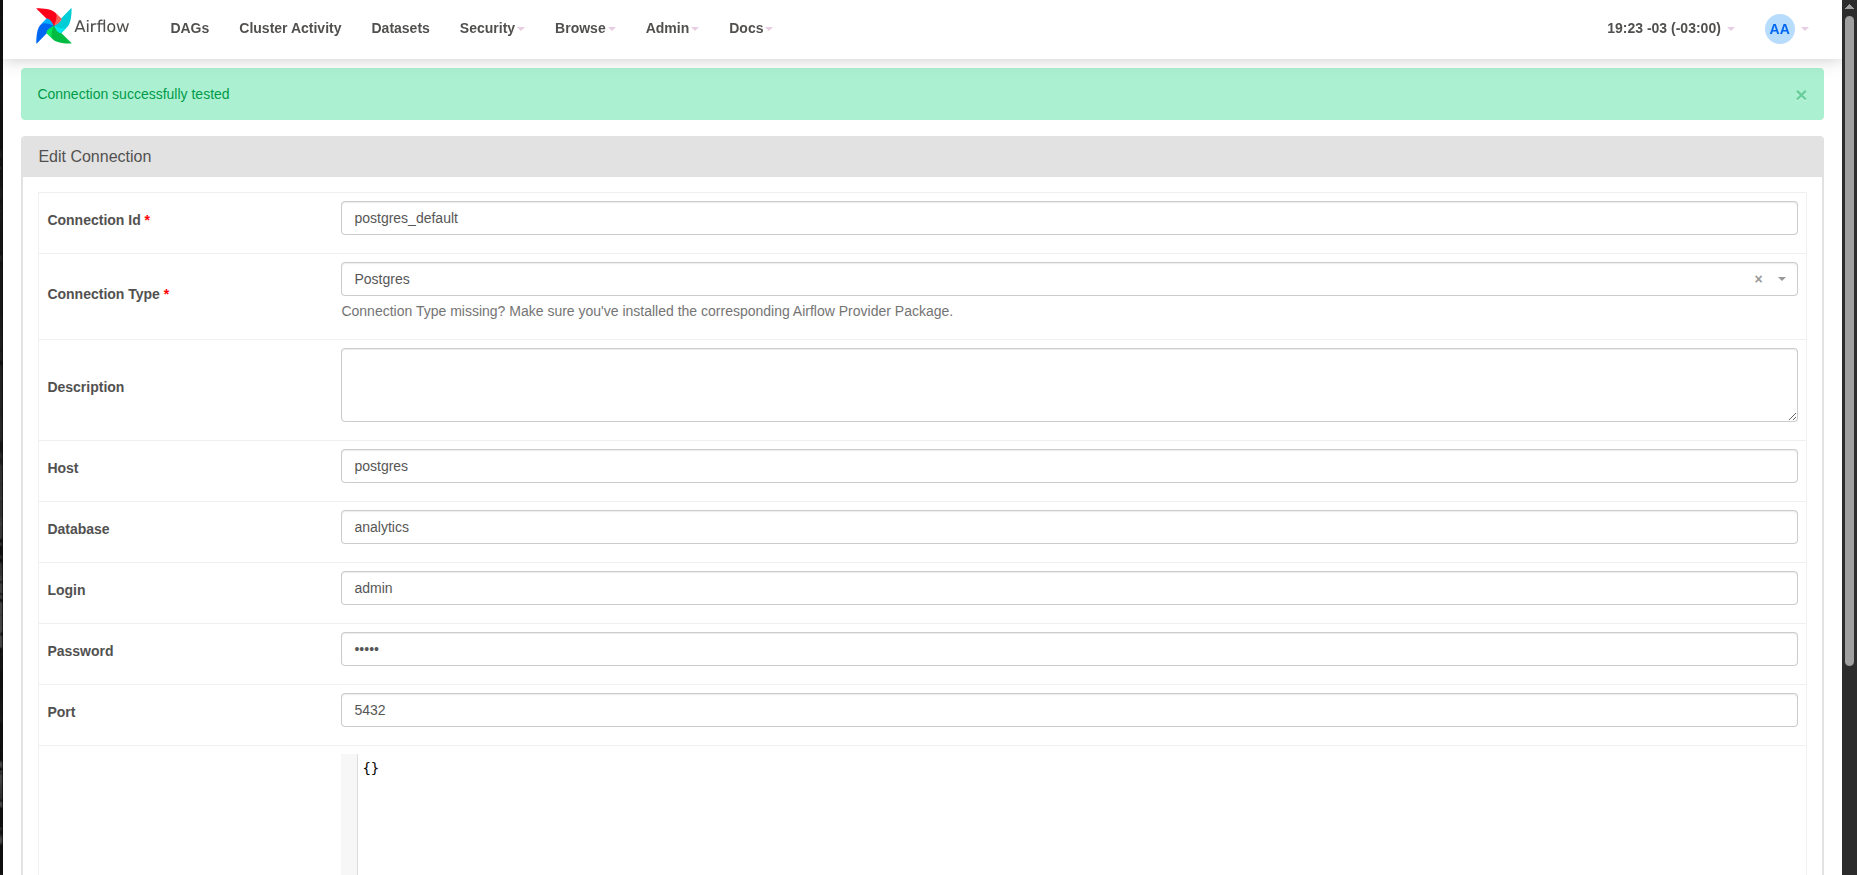
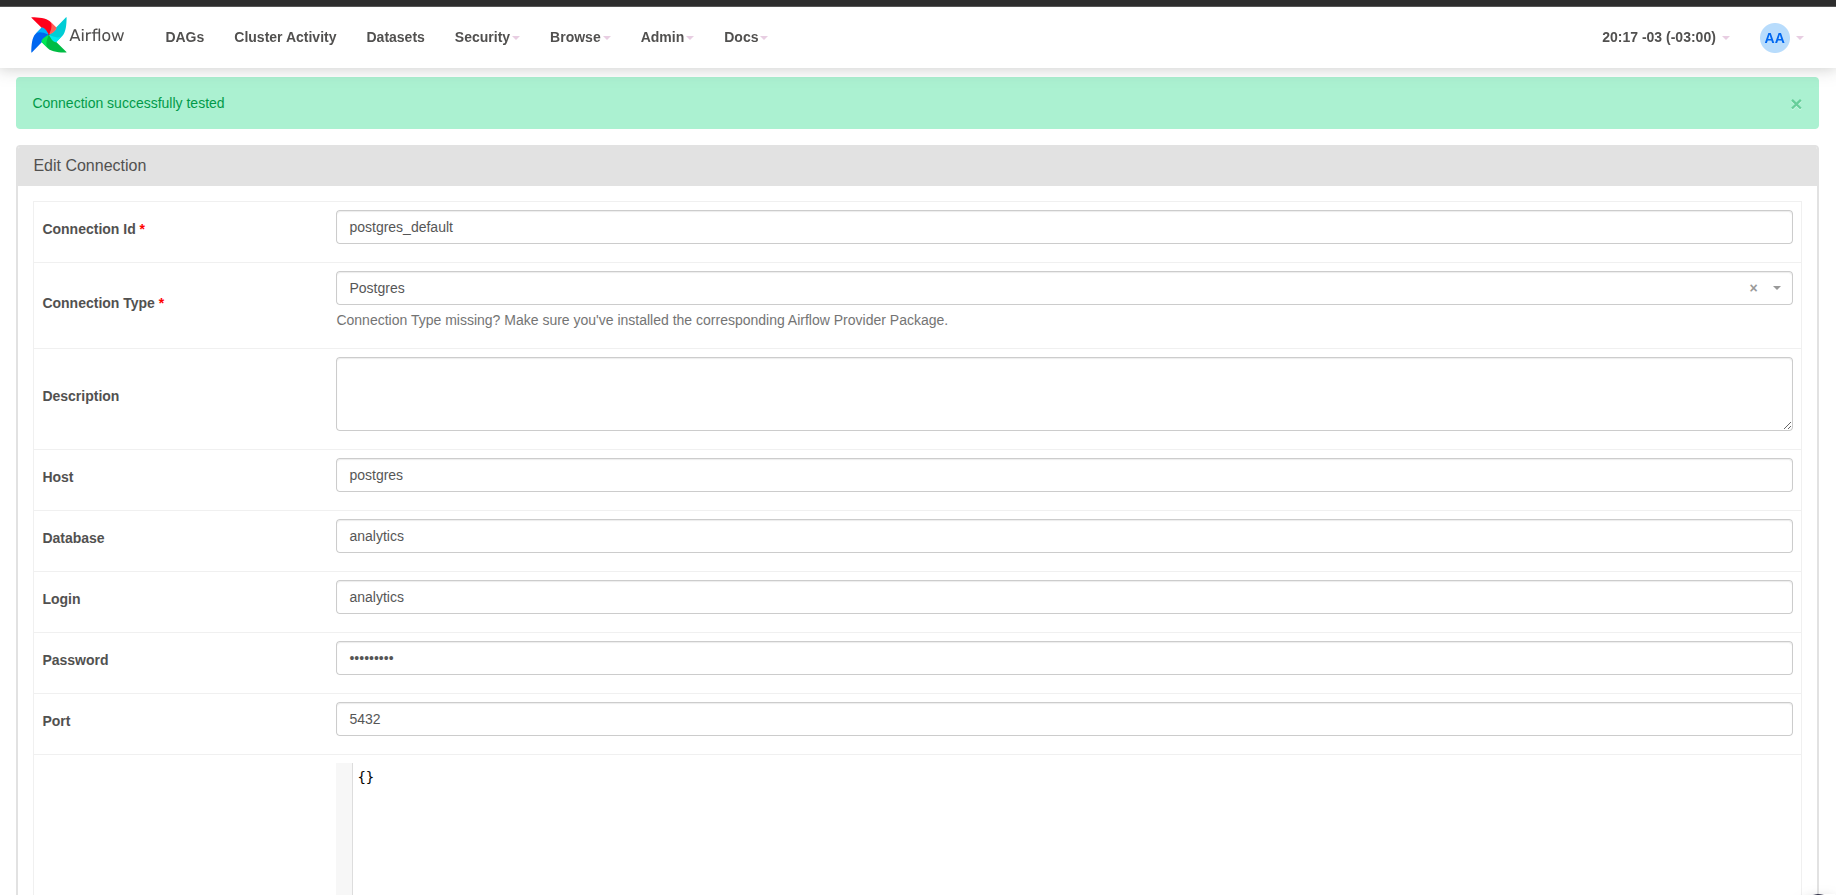
docs: ajustes no readme

diff --git a/README.md b/README.md
@@ -25,7 +25,7 @@ O objetivo é demonstrar **interoperabilidade entre os serviços**, validando co
 │   ├── test_superset1.png
 │   └── test_superset.png
 ├── init_scripts
-│   └── init.sql
+│   └── init.sh
 └── README.md
 ```
 ---
@@ -38,12 +38,12 @@ O objetivo é demonstrar **interoperabilidade entre os serviços**, validando co
   - Metadados do **Airflow** (`airflow_meta`)
   - Metadados do **Superset** (`superset_meta`)
   - Dados de análise (`analytics`)
-- Inicializa automaticamente os bancos e as roles via script `docker/postgres/init.sql`
+- Inicializa automaticamente os bancos e as roles via script `init_scripts/init.sh`
 
 ### Airflow
 
 - Usa **Postgres** como banco de metadados
-- Cria automaticamente o usuário padrão de acesso no Docker Compose:
+- Cria automaticamente o usuário padrão de acesso no Docker Compose nas váriaveis ambiente:
   - Usuário: `airflow`
   - Senha: `airflow`
 - Executa em modo **standalone**, com webserver e scheduler ativos
@@ -63,12 +63,16 @@ O objetivo é demonstrar **interoperabilidade entre os serviços**, validando co
 Antes de iniciar, instale:
 
 - [Docker](https://docs.docker.com/get-docker/)
-- [Docker Compose]()
+- [Docker Compose](https://docs.docker.com/compose/install/)
 ---
 
 ## Configuração do Ambiente
 
-1. Crie o arquivo `.env` a partir do exemplo `.env.example`:
+1. Clone o Repositório.
+   ```
+   git clone git@github.com:Mateushqms/Desafio-T-cnico.git
+   ```
+2. Crie o arquivo `.env` a partir do exemplo `.env.example`:
 
 2. Suba o ambiente com o Docker Compose:
     ```
@@ -80,15 +84,15 @@ Antes de iniciar, instale:
 
 1. Acesse o Airflow: [http://localhost:8080](http://localhost:8080)
 2. Faça login:
-   - Usuário: `airflow`
-   - Senha: `airflow`
+   - Usuário: `airflow` configuradas no .env em `_AIRFLOW_WWW_USER_USERNAME`.
+   - Senha: `airflow` configuradas no .env em `_AIRFLOW_WWW_USER_PASSWORD`.
 3. Vá em **Admin → Connections**
 4. Procure por `postgres_default` e clique em **Edit Record**
 5. Preencha:
-   - Database: `airflow_meta`
-   - Login: valor de `POSTGRES_USER` no `.env`
-   - Senha: valor de `POSTGRES_PASSWORD` no `.env`
    - Host: `postgres`
+   - Database: `analytics`
+   - Login: valor de `POSTGRES_USER_AIRFLOW` no `.env`
+   - Senha: valor de `POSTGRES_PASSWORD_AIRFLOW` no `.env`
    - Port: `5432`
 6. Clique em **Test**
 7. Uma mensagem de sucesso confirmará a interoperabilidade **Airflow → Postgres**
@@ -117,7 +121,7 @@ Antes de iniciar, instale:
    - Host: `postgres`
    - Port: `5432`
    - Database: `analytics`
-   - Login/Senha: valores definidos no `.env` em POSTGRES_USER e POSTGRES_PASSWORD
+   - Login/Senha: valores definidos no `.env` em `POSTGRES_USER_ANALYTICS` e `POSTGRES_PASSWORD_ANALYTICS`
 
 5. Clique em **Connect**
 6. Se não der a mensagem "Connection Failed ..." e ir para uma próxima etapa, está funcionando, só clicar em finish.
@@ -130,6 +134,6 @@ Antes de iniciar, instale:
 1. No Superset, selecione **Connect Database → PostgreSQL**
 2. Clique em **“Connect this database with SQLAlchemy URI string instead”**
 3. Informe a URI abaixo (substituindo as variáveis do `.env`):
-4. postgresql+psycopg2://{POSTGRES_USER}:{POSTGRES_PASSWORD}@postgres:5432/analytics
+4. postgresql+psycopg2://{POSTGRES_USER_ANALYTICS}:{POSTGRES_PASSWORD_ANALYTICS}@postgres:5432/{POSTGRES_DATABASE_ANALYTICS}
 
 ![](/evidencias/test_superset.png)
